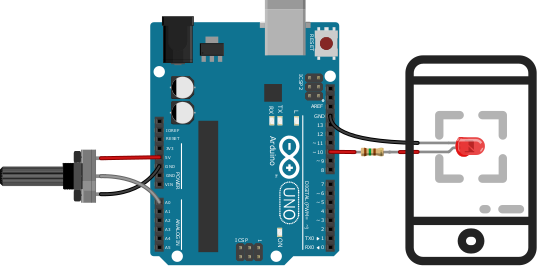
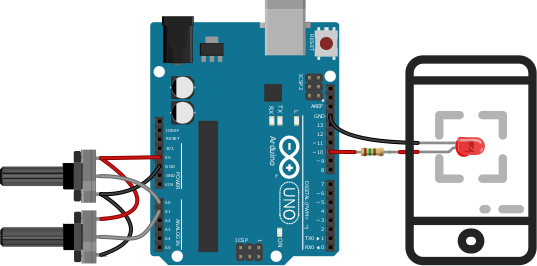
Change HUI for the simple PWM (hardware user interface)

Changed region(s): [[0.0, 0.6917, 0.298, 0.9925], [0.1788, 0.6015, 0.2384, 0.6617]]

diff --git a/README.md b/README.md
@@ -18,7 +18,7 @@ Hacer un RS-VS con Arduino es muy sencillo, en su configuración mas simple solo
 + Arduino UNO (o cualquiera basado en el micro ATmega328)
 + Un LED
 + Una resistencia de entre 150/220/470 ohms, para limitar la corriente del led
-+ Un potenciometro de 10k ohms, para ajustar la frecuencia del flicker
++ Dos potenciometros de 10k ohms, para ajustar la frecuencia del flicker y la cantidad de líneas.
 + Un celular con cámara :iphone:
 
 ![schematic](/SimplePWM_RS-VS/SimplePWM_RS-VS.png)
@@ -31,7 +31,7 @@ Descargue y descomprima este repostorio en su pc, y cargue el scketch que se enc
 ### Uso: Tips and tricks
 + Una vez cargado el sketch, acerque la cámara del celular lo mas posible al led. Posiblemente vea algo similar a esto:  
 ![001](/img/001.png)  
-Regule el potenciometro hasta que obtenga una imagen estática, si no lo consigue pruebe modificar la frecuencia de la cámara en el scketch `F_CAM = 30` por `F_CAM = 25` o algún valor intermedio y vuelva a cargarlo.  
+Regule el potenciometro conectado a A1 para fijar la cantidad de lineas en la pantalla, y ajuste el potenciometro conectado a A0 hasta que obtenga una imagen estática, si no lo consigue pruebe modificar la frecuencia de la cámara en el scketch `F_CAM = 30` por `F_CAM = 25` o algún valor intermedio y vuelva a cargarlo.  
 + Para lograr un mayor contraste en la imágen, puede (si su cámara lo permite) aumentar la sensibilidad fotográfica (ISO), que en definitiva, significa aumentar la ganancia del sensor de imagen CMOS. En mi caso (Samsung S4 mini, GT-I9190) esto se logra de la siguiente manera:  
 ![002](/img/002.png)  
 *Configuración*  
@@ -49,10 +49,10 @@ Regule el potenciometro hasta que obtenga una imagen estática, si no lo consigu
 *Automático con silicona (sin ISO)*  
 ![007](/img/007.png)  
 *Misma imagen en modo deportes*   
-+ Por último, dirijasé al monitor serial en el Arduino IDE que se encuentra en `Herrramientas -> Monitor Serie`, o presione `Ctrl+Mayús+M`. Introduzca el número de líneas que desee y presione enter, ajuste nuevamente la frecuencia con el potenciometro.   
++ Regulando el potenciometro conectado a A1 controlamos la cantidad de líneas:   
 ![008](/img/008.png)  
 *16 líneas*  
-+ En el modo video por lo general no hay tanta flexibilidad. [Ver Video](https://youtu.be/N84VtNb9414).
+
 
 ## Más
 ¡Hay muchas mas cosas que se pueden hacer!, dibujar unas líneas con un led esta bien, pero ¿como variar el ancho de la línea/pulso? ¿y si el ancho varía de línea en línea? ¿y si le agregamos otros colores? ¿podemos enviar información o alguna clase de código al celular? ¿que otras maneras hay de generar este efecto sin usar arduino?.  
